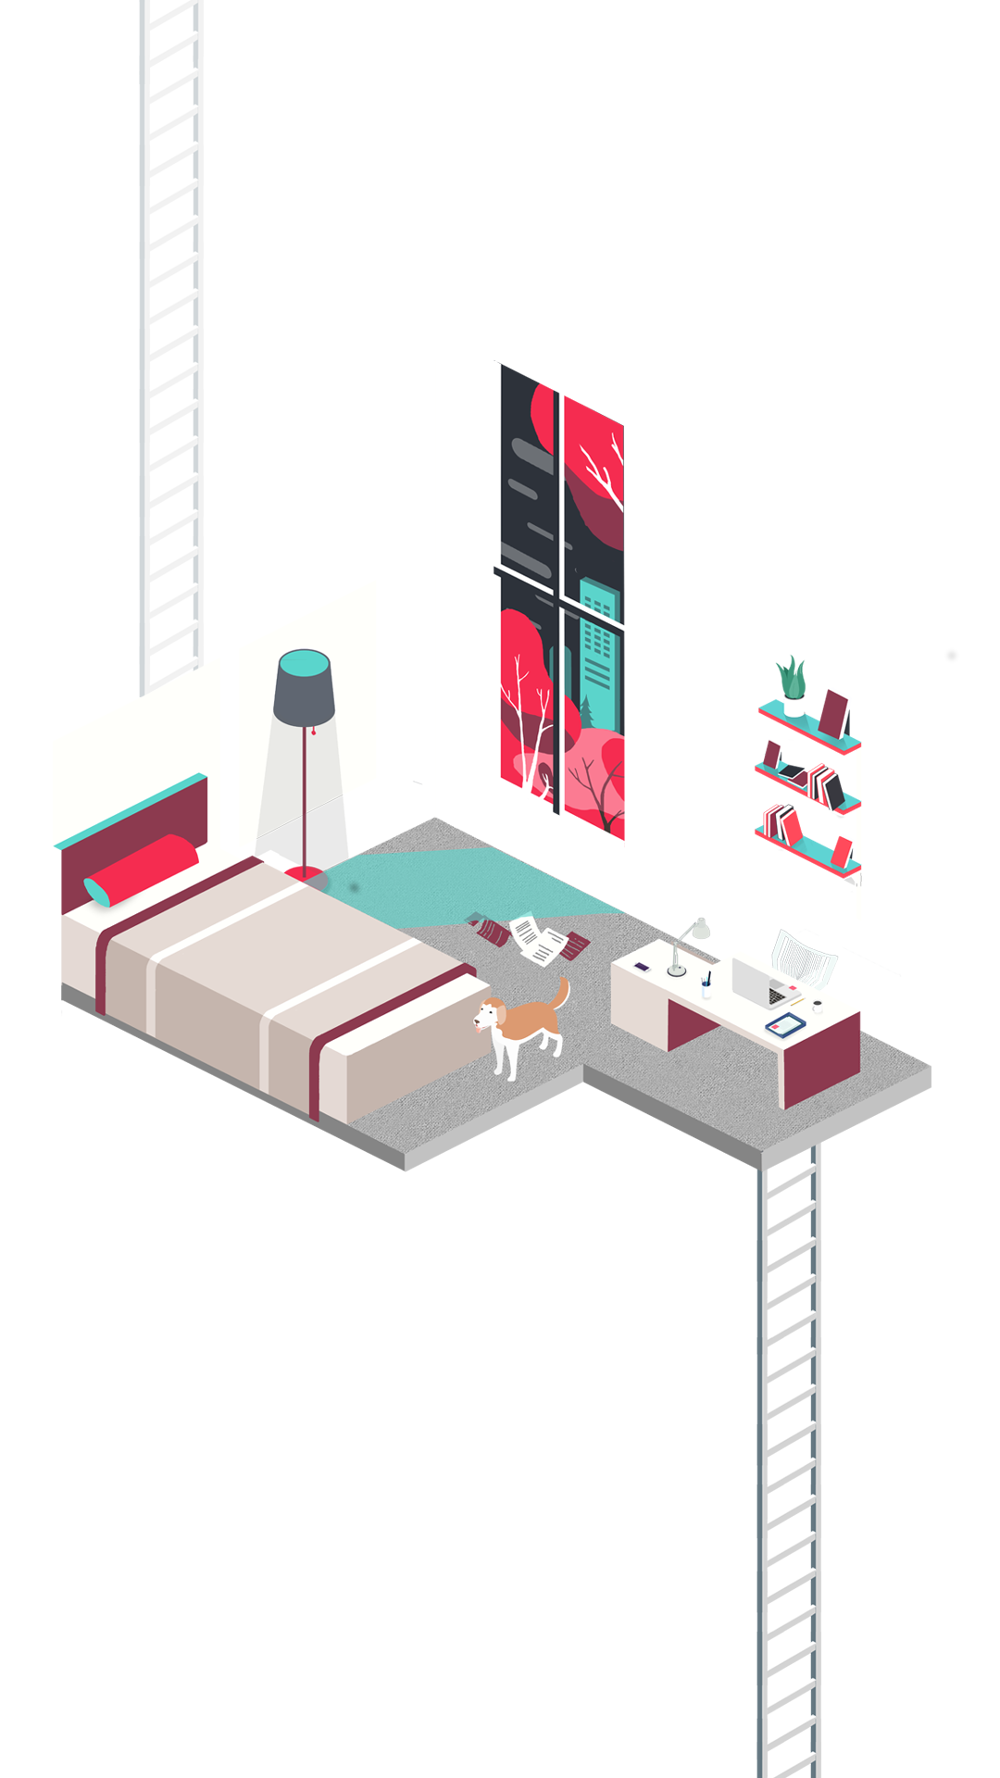
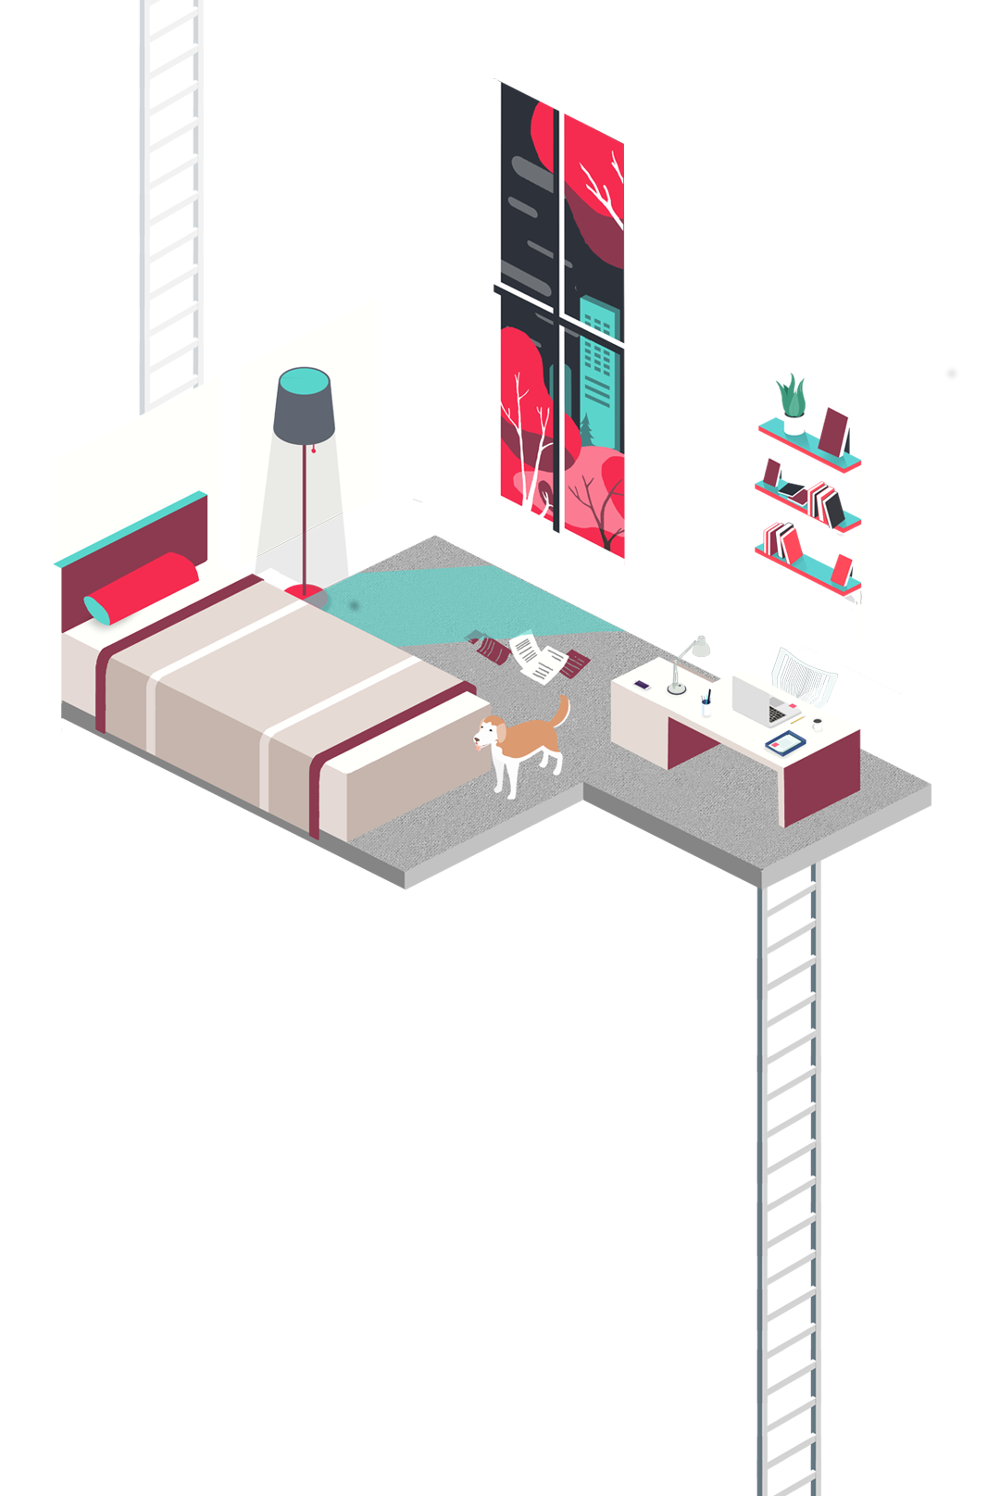
Some mobile image stuff

Changed region(s): [[0.062, 0.0615, 0.93, 0.861], [0.775, 0.8917, 0.837, 0.984]]

diff --git a/style.css b/style.css
@@ -10,15 +10,16 @@ html, body {
   color: white;
   text-decoration: underline;
 }
-.section-left {
+.section {
+  width: 100vw;
   min-height: 100vh;
   display: grid;
+}
+.section-left {
   grid-template-areas: "room content";
   grid-template-columns: calc(25vw + 278px) calc(75vw - 278px);
 }
 .section-right {
-  min-height: 100vh;
-  display: grid;
   grid-template-areas:
   "room content";
   grid-template-columns: calc(75vw - 278px) calc(25vw + 278px);
@@ -101,7 +102,7 @@ html, body {
   font-size: 30px;
   padding-bottom: 20px;
 }
-@media (min-width: 951px) {
+@media (min-width: 601px) {
   .room-mobile {
     display: none;
   }
@@ -178,41 +179,67 @@ html, body {
   #tagline {
     text-align: right;
   }
-}
-@media (max-width: 950px) {
-  .room-desktop {
+  .mobileonly {
     display: none;
   }
-  .section {
-    display: grid;
-    grid-template-areas:
-    "room"
-    "content";
-    grid-template-rows: 50vh auto;
-    grid-template-columns: 100vw;
-  }
+}
+
+/* Applies to everything smaller */
+@media (max-width: 600px) {
   .left {
-    width: 100vw;
-    order: 1;
+    display: none;
   }
   .right {
+    width: 75vw;
+    margin-top: auto;
+    text-align: left;
+    padding-left: 40px;
+  }
+  #register {
+    margin-left: 0;
+    margin-top: 20px;
+    width: 180px;
+  }
+  #intro {
+    max-height: 100vh;
+    background-image: url("img/rooms/home_mobile.png");
+    background-size: auto 100vh;
+    background-repeat: no-repeat;
+    background-position: center;
+  }
+  .room {
+    display: none;
+  }
+  #tagline {
+    display: none;
+  }
+  .title {
+    font-family: 'TruenoRegular';
+    font-size: 1.8em;
+    width: 80%;
+  }
+  #year {
+    margin-top: 0;
+    margin-bottom: 10px;
+  }
+  .titlesubinfo {
+    display: inline;
+  }
+}
+
+@media (max-width: 950px and min-width: 451px) {
+  .right {
     width: 100vw;
-    margin: 0 auto;
+    margin-top: auto;
+    margin-left: auto;
+    margin-right: auto;
     padding-bottom: 30px;
-    order: 2;
   }
   .otherinfo {
     margin-top: 30px;
     width: 80%;
     margin-left: auto;
     margin-right: auto;
-  }
-  .title {
-    font-size: 2em;
-    width: 80%;
-    margin-left: auto;
-    margin-right: auto;
-    text-align: center;
   }
   #subtitle {
     text-align: center;
@@ -223,11 +250,6 @@ html, body {
   #register {
     margin: 20px auto 0 auto;
   }
-  .room-mobile {
-    max-width: 300px;
-  }
-  #tagline {
-    text-align: center;
-    font-size: 20px;
-  }
+}
+@media (max-width: 450px) {
 }

diff --git a/index.html b/index.html
@@ -22,11 +22,10 @@
   <body>
     <div class="section section-left" id="intro">
       <div class="left">
-        <img class="room room-desktop" src="img/rooms/home.png"/>
-        <img class="room room-mobile" src="img/rooms/home_mobile.png"/>
+        <img class="room" src="img/rooms/home.png"/>
       </div>
       <div class="right">
-        <!-- this takes up 446px -->
+        <!-- this takes up 446px on desktop -->
         <div id="tagline">
           room to build. space to create.
         </div>
@@ -40,8 +39,9 @@
           2019
         </div>
         <div class="otherinfo" id="subtitle">
-          <span class="subinfo">feb 16-17</span>
-          <span class="subinfo">chicago, il</span>
+          <span class="subinfo titlesubinfo">feb 16-17</span>
+          <span class="subinfo titlesubinfo mobileonly"> | </span>
+          <span class="subinfo titlesubinfo">chicago, il</span>
         </div>
         <div id="register">
           apply now!
@@ -58,14 +58,12 @@
         </div>
       </div>
       <div class="left">
-        <img class="room room-desktop" src="img/rooms/fantasy.png"/>
-        <img class="room room-mobile" src="img/rooms/fantasy_mobile.png"/>
+        <img class="room" src="img/rooms/fantasy.png"/>
       </div>
     </div>
     <div class="section section-left" id="faq">
       <div class="left">
-        <img class="room room-desktop" src="img/rooms/spaceclouds.png"/>
-        <img class="room room-mobile" src="img/rooms/spaceclouds_mobile.png"/>
+        <img class="room" src="img/rooms/spaceclouds.png"/>
       </div>
       <div class="right nonintro">
         <div class="title">
@@ -151,8 +149,7 @@
         </div>
       </div>
       <div class="left">
-        <img class="room room-desktop" src="img/rooms/japanesegarden.png"/>
-        <img class="room room-mobile" src="img/rooms/japanesegarden_mobile.png"/>
+        <img class="room" src="img/rooms/japanesegarden.png"/>
       </div>
     </div>
   </body>
